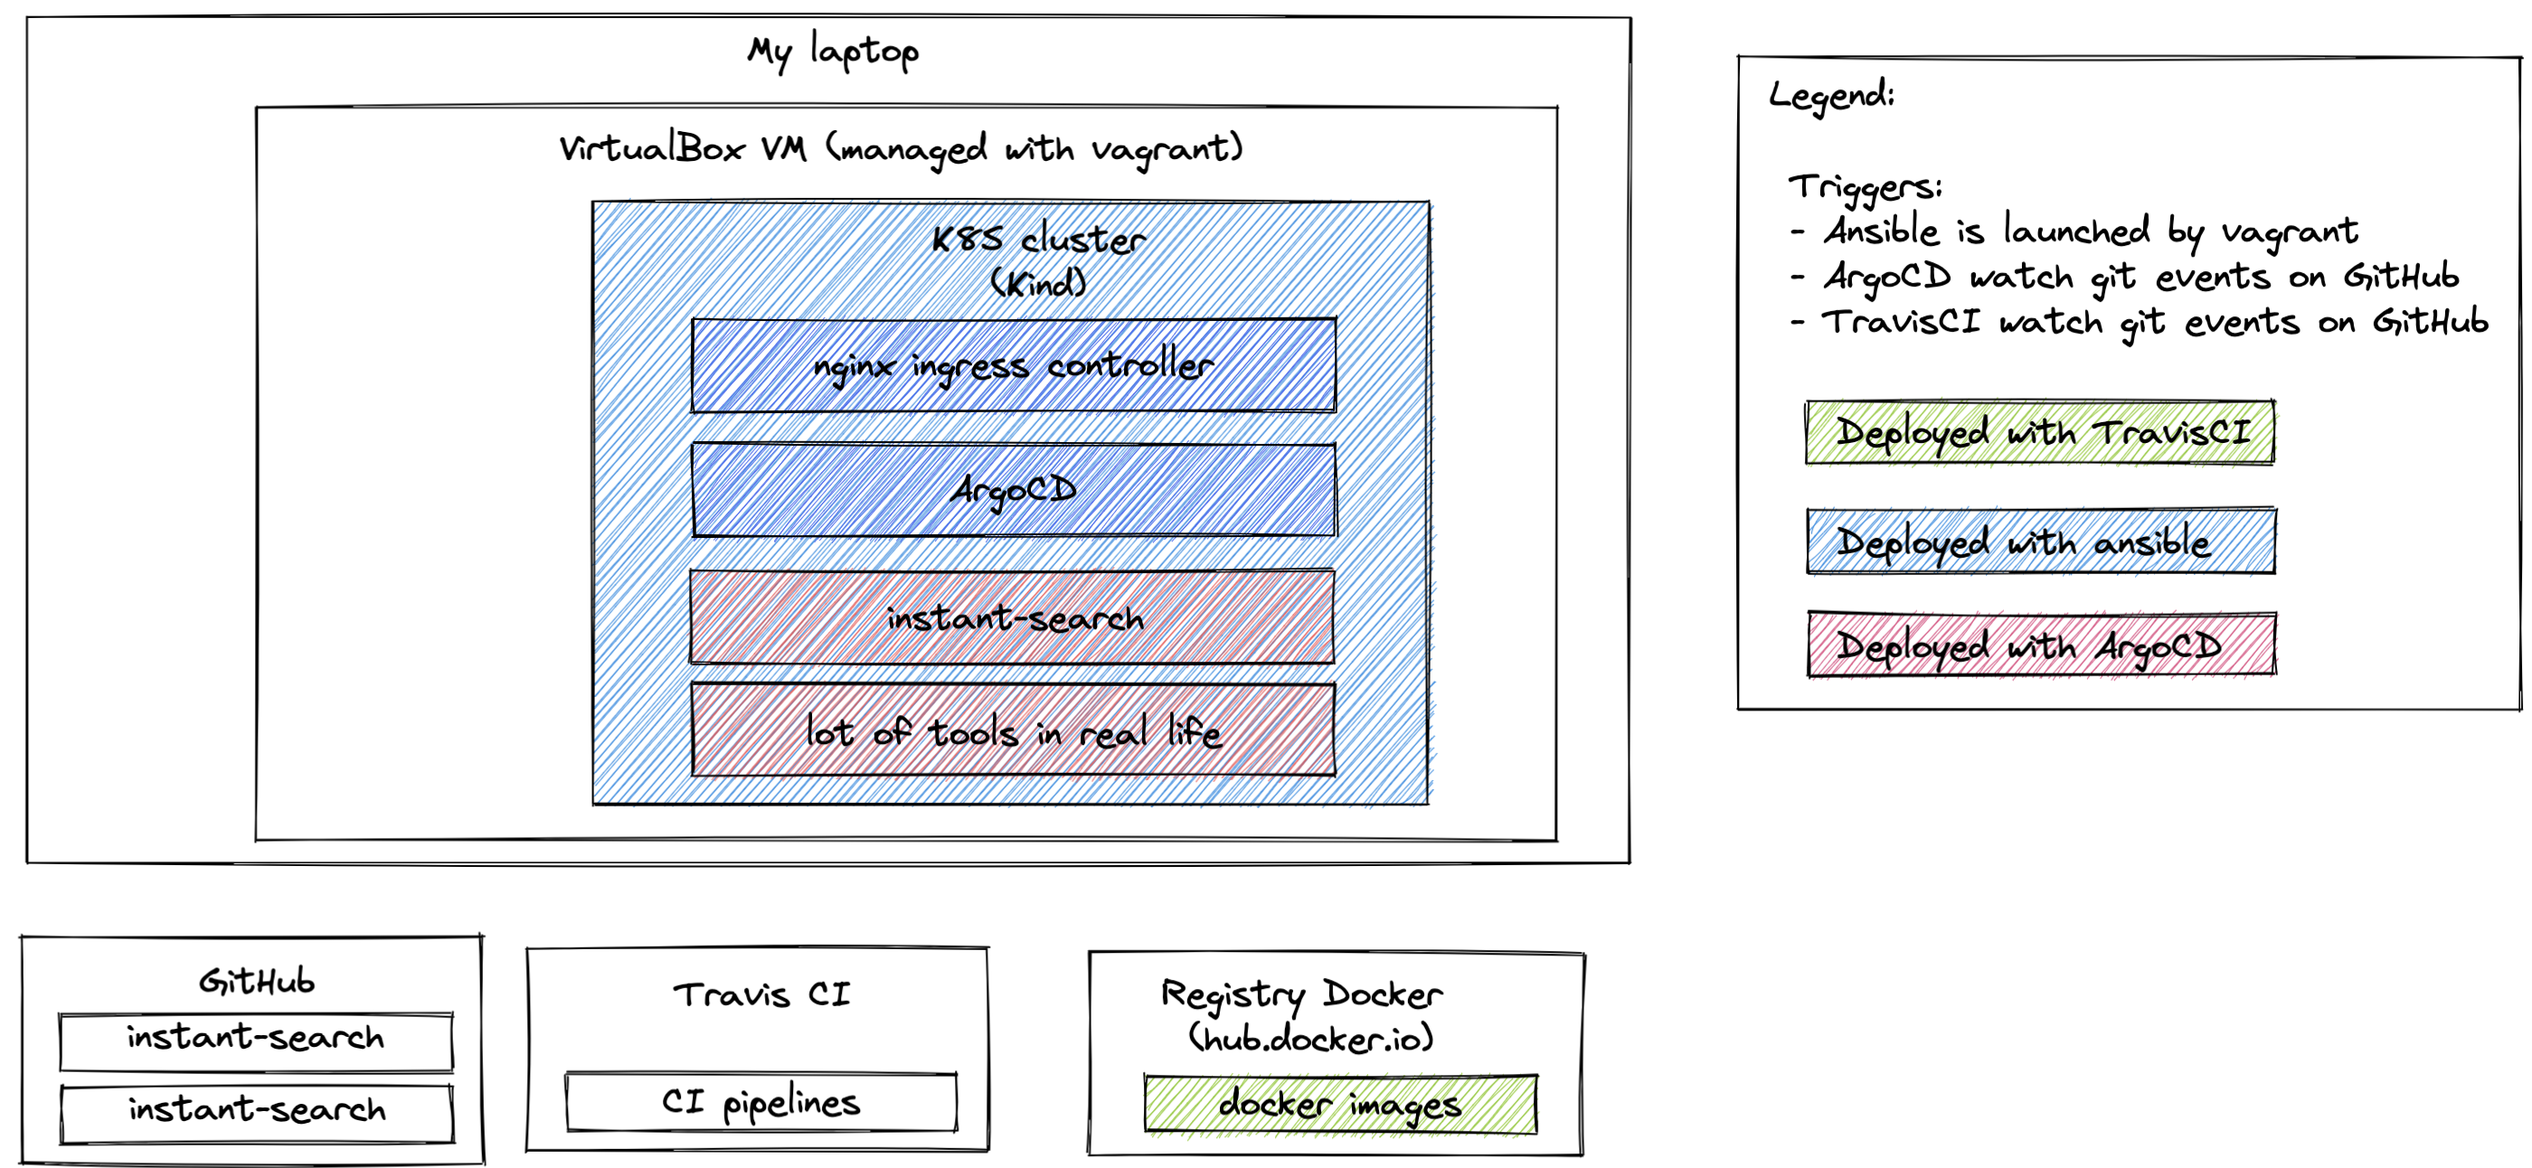
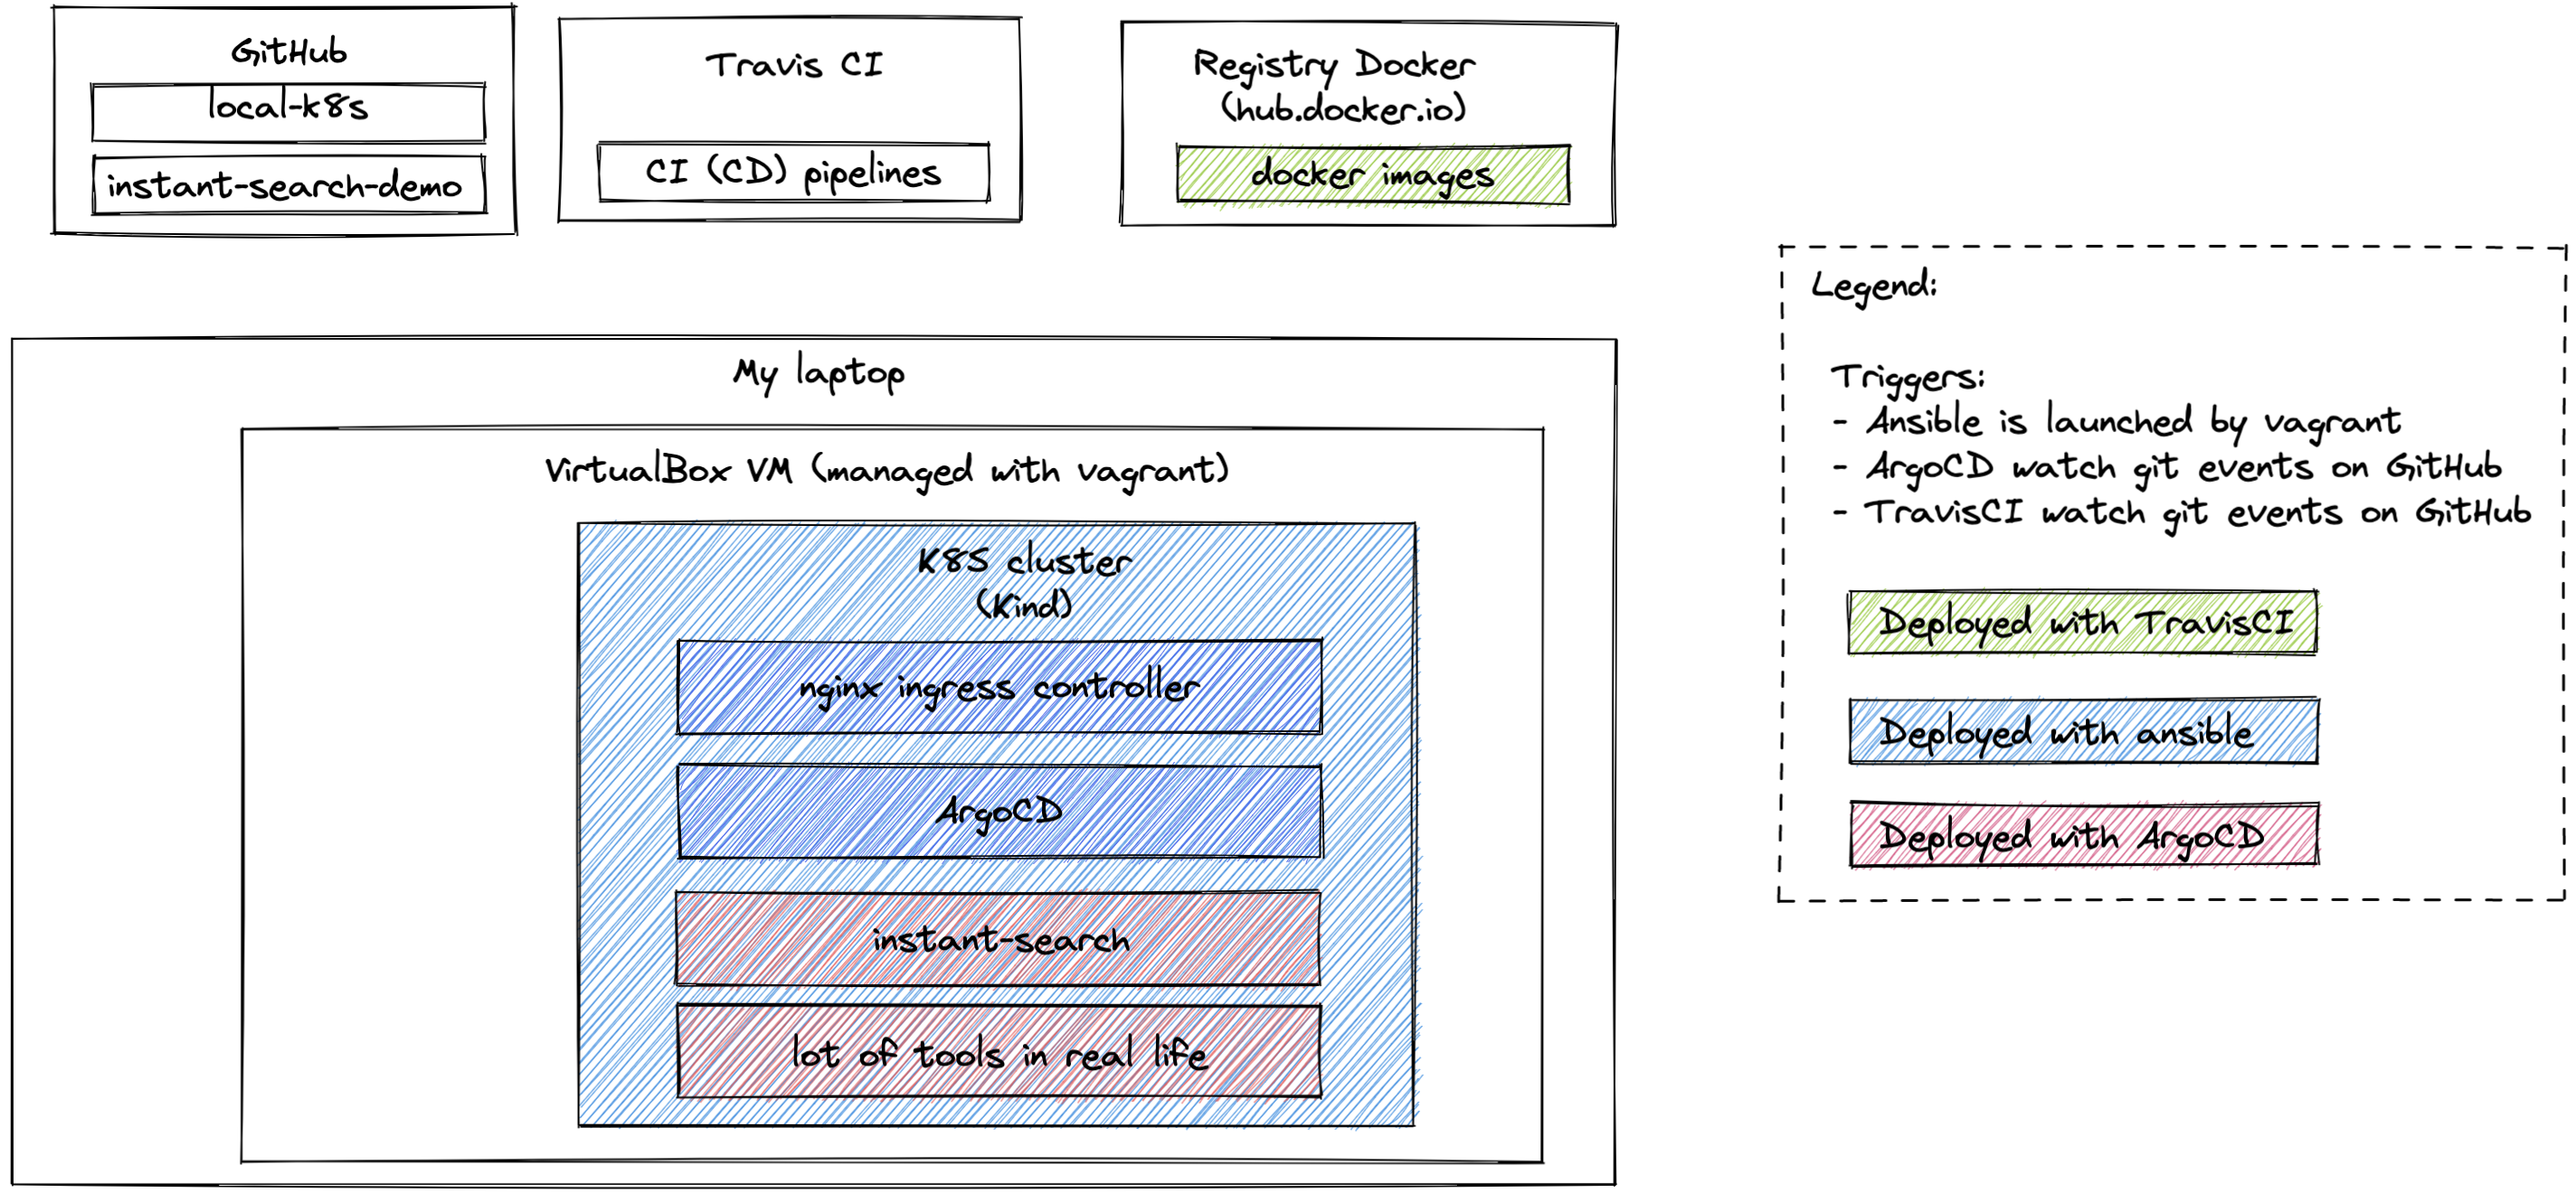
doc add missing venv setup

diff --git a/README.md b/README.md
@@ -26,6 +26,12 @@ In a real context, I will implement CI/CD pipeline to do all these tasks
 * plugin vagrant
     * `vagrant plugin install vagrant-hostmanager`
 
+```sh
+virtualenv -p python3 venv
+source venv/bin/activate
+pip3 install -r requiremments.txt
+```
+
 # Launch locally
 
 Temporarly:
@@ -117,4 +123,13 @@ Configure a project and a repository in ArgoCD to deploy instant-search app
 
 # Architecture
 
+## Local architecture (current)
 ![](./docs/archi-basic.png)
+
+## Target architecture (not implemented)
+
+### Layering 
+
+![](./docs/layering-archi.png)
+
+> For convenience, in sent version, `local-k8s` repository contains also a little part of `k8s-apps` that is designed here.
